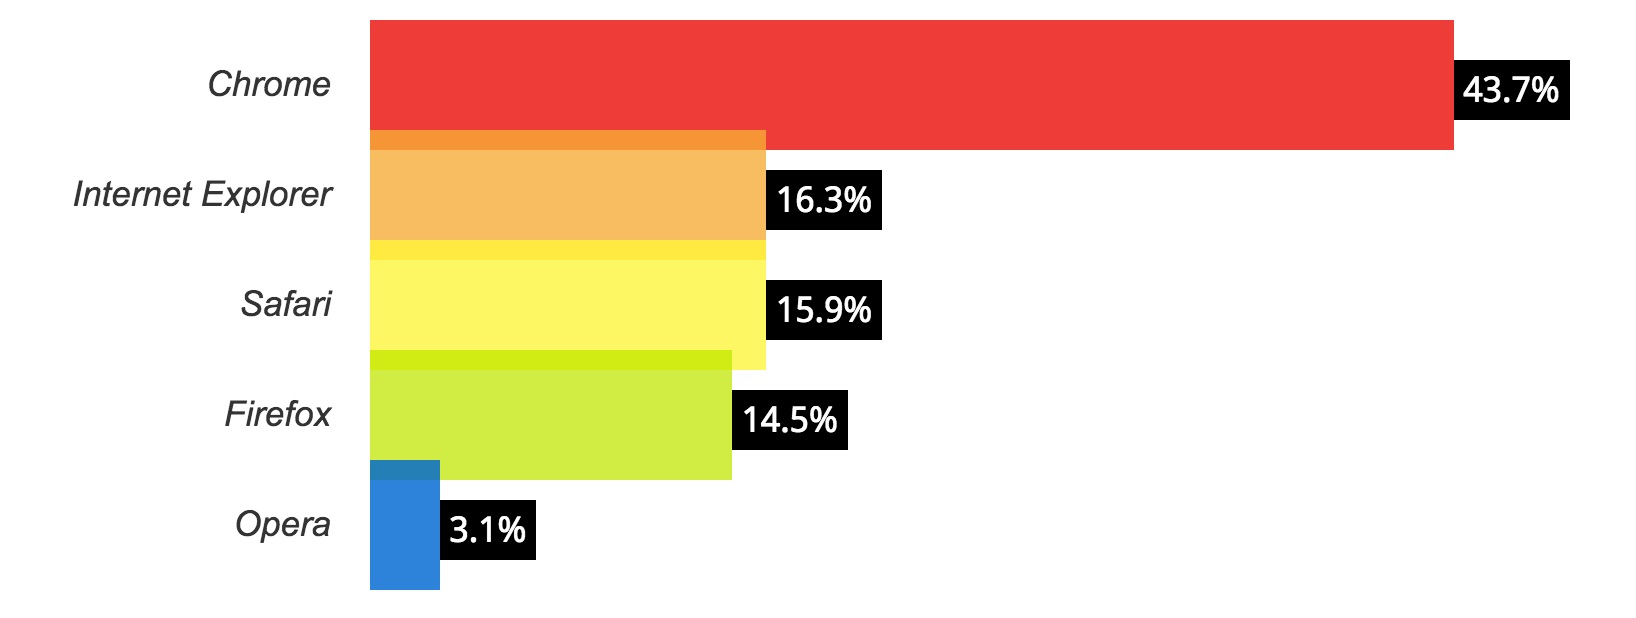
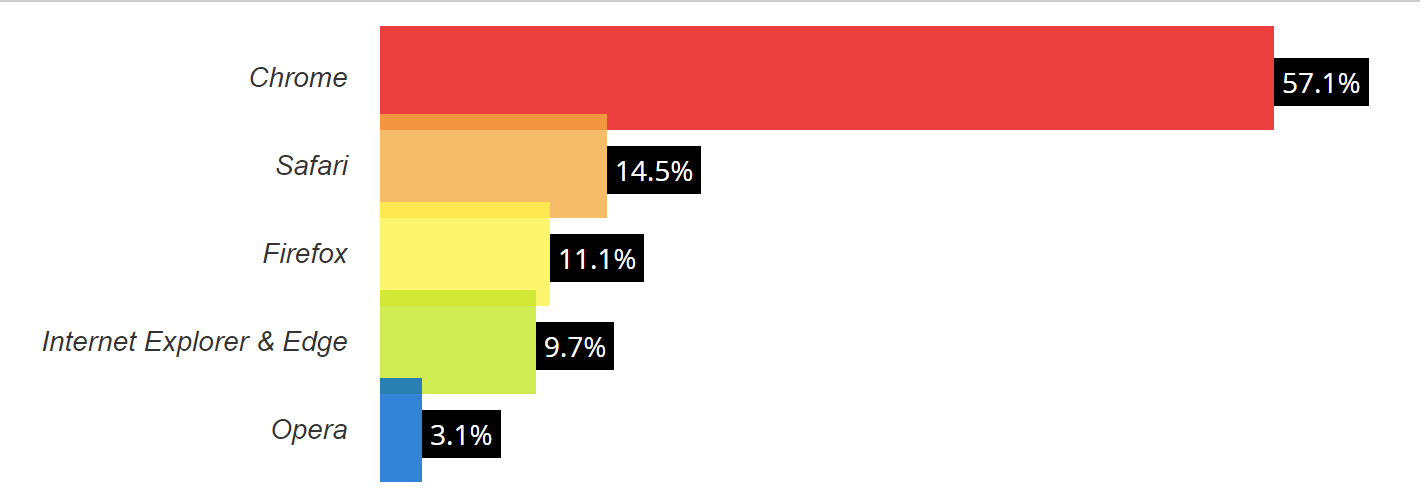
update intro-js lecture

Changed region(s): [[0.0, 0.0, 0.9874, 0.9821]]

diff --git a/09_intro-to-js/index.html b/09_intro-to-js/index.html
@@ -99,7 +99,7 @@ ECMAScript.
 
 ![Alt text](../assets/img/the-most-used-programming-languages-on-stack-overflow-2013-2014-2015.png)
 
-
+<a href="http://stackoverflow.com/research/developer-survey-2016#technology">more</a>
 ---
 
 
@@ -109,7 +109,7 @@ ECMAScript.
 
 ![Alt text](../assets/img/browsers1.jpg)
 
-
+<a href="https://www.w3counter.com/globalstats.php?year=2016&month=11">more</a>
 ---
 
 
@@ -278,7 +278,7 @@ var a = 5 + 8;
 ---
 
 
-# JS output
+# JS output and debugging
 
 For JavaScript values output you can use “console.log” or “alert” function.
 
@@ -292,11 +292,40 @@ alert(123);
 alert("the value of x is");
 </pre>
 
+You can execute JS directly into console, open dev tools (F12) and go in "Console" tab
 
+![Alt text](../assets/img/console.log.jpg)
 
 ---
 
 
+
+You can stop execution of JS in some particular place of code and take a look what is going on there.
+Open dev tools and go in 'Sources' tab
+
+index.html
+``` html
+
+<!Doctype html>
+<html>
+<head>
+    <script src=”script1.js”></script>
+</head>
+...
+</html>
+
+```
+script1.js
+<pre class="brush: jscript">
+var a = 15 + 45;
+var b = 32 + 11;
+var c = a + b; 
+</pre>
+
+![Alt text](../assets/img/debugging.jpg)
+
+---
+ 
 # Variables
 
 To catch and hold values, JavaScript provides a thing called a variable. A variable always has a name,
@@ -305,7 +334,7 @@ and it can point at a value, holding on to it.
 <pre class="brush: jscript">
 var a;
 
-var c, b, myVariable;
+var b, c, myVariable;
 
 var _x = 10, $z = 20, myVariable = 30;
 
@@ -322,14 +351,56 @@ ES6
 <pre class="brush: jscript">
 let a;
 
-let c, b, myVariable;
+let b, c, myVariable;
+
+const A = 'some A constant';
+
+const B = 'some B constant',
+      MY_CONST = 'some MY_CONST constant';
 
 ...
 </pre>
 
+---
+# Interaction with user via ‘prompt’
+
+The prompt() method displays a dialog box that prompts the visitor for input.
+
+Syntax
+
+<pre class="brush: jscript">
+prompt(text, defaultText)
+</pre>
+
+.demo1[
+<table class="table-demo">   
+    <thead>
+        <tr>
+            <th><em>Parameter</em></th>
+            <th><em>Type</em></th>
+            <th><em>Description</em></th>
+        </tr>
+    </thead>
+    <tbody>
+        <tr>
+            <td>text</td>
+            <td>string</td>
+            <td>Required. The text to display in the dialog box</td>
+        </tr>
+        <tr>
+            <td>defaultText</td>
+            <td>string</td>
+            <td>Optional. The default input text</td>
+        </tr>
+    </tbody>
+</table>
+]
+
+<pre class="brush: jscript">
+var userName =  prompt("what is your name", "Petro");
+</pre>
 
 ---
-
 
 # Keywords and reserved words
 
@@ -446,13 +517,26 @@ Strings are used to represent text. They are written by enclosing their content 
 <pre class="brush: jscript">
 var a = “First string”;
 var b = ‘Second string’;
-var c = “Some ‘interest’ string”;
+var c = a + ' and ' + b; //First string and Second string
 
 var stringLength = “Hello”.length;
 
 var complexString = “Some \”complex \” string”
 </pre>
 
+Template Strings (ES6)
+
+it uses back-ticks (``) rather than the single or double quotes: 
+
+<pre class="brush: jscript">
+let a = `First string`;
+let b = `Second string`;
+
+let c = `${a} and ${b}`; //First string and Second string
+
+let d = `2 + 2 is equal ${2 + 2}`; //"2 + 2 is equal 4"
+
+</pre>
 
 ---
 
